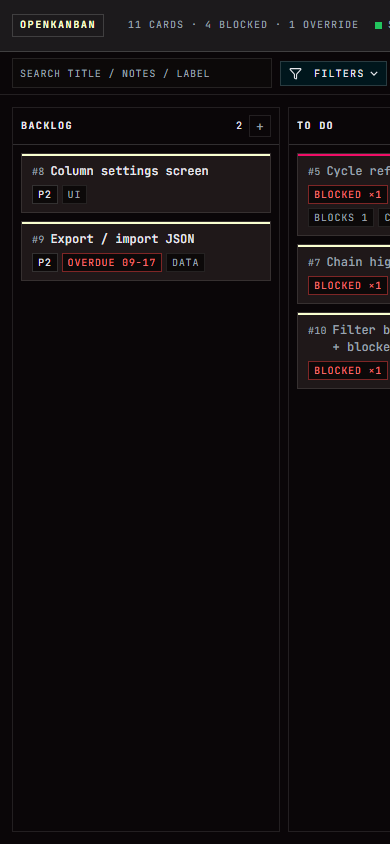
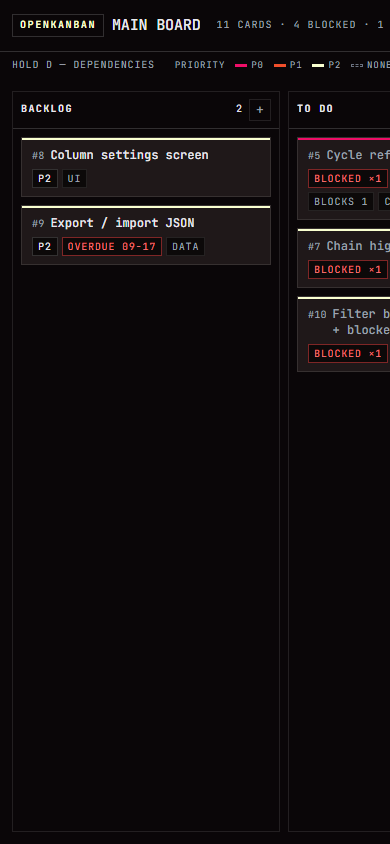
docs: refresh the screenshots and the numbers for the toolbar layout
Captions now match the interface: the filter pane opens under its icon in the toolbar, and the
settings panel is described as the sidebar it is.

The session table is re-measured at 162 minutes, 24 turns, 424 responses, 617 tool calls, 80.2M
tokens and a dollar sixty-eight, with the DuckDB query printed so the figure can be reproduced
rather than taken on trust — and a note that the session ran past the measurement, so it is a
snapshot.

The plan records the three defects this round produced (the composer that survived a reset, the
toolbar that starved the search field to zero width, the two read-outs under AA) and the three
decisions behind the layout: three surfaces and one hover, read-outs without borders, and columns
that fill the page height. Four claims that measurement did not support are recorded alongside
them, including the seed's dependency edges being cross-column — six of the eight are.

diff --git a/tasks/plans/openkanban-mvp.md b/tasks/plans/openkanban-mvp.md
@@ -277,8 +277,9 @@ Verification tally — the runs, each counted once, summing to the total:
 8 numbering/migration/edge semantics, 10 regression over the new features, 4 hover-ring semantics,
 7 regression over the card surface change, 7 column-header checks, 9 ink-surface checks,
 6 ring-separator checks, 6 overlay-contrast checks, 14 reset-flow checks, 5 surface-and-header
-colour checks, plus the committed smoke suite (18 checks) run end to end.
-**372 assertions across 26 runs.**
+colour checks, 9 toolbar-restructure checks, 8 full-height-layout checks, 4 centring checks, 6
+bar-width checks, plus the committed smoke suite (19 checks) run end to end.
+**399 assertions across 30 runs.**
 
 Thirty-one failed on first pass. Two were real product defects, both found by a test rather than
 by review, both fixed: the icon CDN executing nothing (defect 11) and a chip click dismissing the
@@ -414,9 +415,39 @@ horizontal scroll: 0), which is the standard kanban affordance, and at COMPACT d
     both directions: it exits 1 naming `--col-bg` at styles.css:685 on the broken state, and passes
     once the reference is fixed.
 
+18. **A half-typed card survived a reset** (found by re-reading the reset path against `importFile`,
+    which clears `ui.inlineAdd` and this did not). Reproduced before fixing: type "half typed title"
+    into a column's composer, reset the board, and the emptied column came back with the text still
+    in its add form — the one piece of pending work the wipe left behind. `doResetBoard` now clears
+    it with the rest of the pointers at deleted cards, and the smoke suite asserts the composer is
+    gone so the next person cannot reintroduce it. Consequence of the same pass: reset keeps the
+    filters, where import clears them — an import replaces the board with a different one (where a
+    stale filter hides everything), while a reset leaves a visible search box and visible chips, so
+    silently changing the view would be a second, unasked-for action.
+19. **The toolbar squeezed the board title to "MA…"** — visible in the hero screenshot the moment the
+    search field moved into the bar. Measured: the title rendered 32px of the 89px it needed, because
+    `flex: 0 1 auto` let it shrink while the fixed-width search field did not. The title is now
+    `flex: 0 0 auto` and the search field is `clamp(130px, 17vw, 220px)`, so the field gives way
+    first and the bar scrolls before the title is clipped. Verified: 89px rendered, fits.
+20. **Two toolbar hints were under AA** — the dependency hint ("HOLD D — DEPENDENCIES", the only
+    place the headline feature's hotkey is taught) and the priority legend's label both measured
+    4.17:1 at 9–10px. Both moved from muted to secondary for 7.93:1. The same pass raised the storage
+    lamp for the same reason (3.58:1 on the short-lived carbon band, 6.81:1 after).
+21. **The toolbar starved the search field to zero width** — found by checking the bar at six widths
+    after the search field moved into it. With the field on `flex: 0 1 auto` and `min-width: 0`, the
+    two `flex: 1` spacers that centre it took everything: at 700px the input rendered 0px wide while
+    the toolbar reported it as present. It is now `flex: 0 0 auto` with `clamp(130px, 17vw, 220px)`,
+    measured at 390/700/900/1200/1440/1920 — a real width at every one, and the bar scrolls instead of
+    collapsing a control. Centring holds (13px of true centre) wherever the bar is not scrolling.
 Claims that did not survive checking: a visual audit asserted the columns had different widths and
 that DONE was narrower; measurement shows five × 268px and zero card/chip overflow. The same audit's
-"low-contrast" complaint was right, but for a different reason than stated (item 1).
+"low-contrast" complaint was right, but for a different reason than stated (item 1). Three more from
+the review of this round, each settled by measuring rather than by argument — a claim that the seed's
+dependency edges are all intra-column (six of eight cross columns: c-shell in DONE blocks c-store in
+REVIEW and c-drag in IN PROGRESS, c-graph in IN PROGRESS blocks c-cycle in TO DO, and so on); a vision
+reading of the armed reset button as "red with white text" (`getComputedStyle` says `rgb(24, 4, 6)` at
+weight 700, which is 5.27:1 on the fill); and a claim that this repo has a git remote (it has none —
+which is why the README carries no CI badge and describes the workflow in prose instead).
 
 ## Assumption log (sorted by consequence)
 
@@ -525,6 +556,22 @@ that DONE was narrower; measurement shows five × 268px and zero card/chip overf
     confirm button fills, and only once the word has armed it. This keeps the fifth hue out of a
     palette where every colour already means something (priority rail, blocked/override, due today,
     the dependency overlay).
+25. **The toolbar, the read-out row and the sidebar all take the page's fill** (user-directed, across
+    three corrections in one pass: the navy family, then a carbon band, then back to the page). What
+    survived is a rule rather than a colour: a surface is only allowed to differ from the page when it
+    genuinely floats above it — cards, and the ink of modals, toasts and the filter pane. The sidebar
+    is not floating, it is docked, so it is the page with a rule down its edge and a dimmed backdrop
+    behind it. Anything that reads as chrome gets a border, not a plane.
+26. **The dependency hotkey and the priority key sit under the toolbar, not inside it** (user-directed
+    after seeing the first version). They are read-outs, not controls: no border, no fill, no divider,
+    and they scroll with their own row rather than competing for space with the buttons. The rule this
+    settles is that a control earns a border and a read-out does not, which is also why the filter
+    button lost its word and kept only its icon plus a badge.
+27. **Columns fill the page height rather than their content** (user-directed). The app grid gives the
+    board every pixel the toolbar and read-out row do not use, so all five columns share a bottom edge
+    at the viewport foot whether they hold eleven cards or one. An empty column then has a definite
+    place to drop a card, and the board reads as a board rather than as five lists of different
+    lengths.
 
 ## Reasoning trace
 

diff --git a/README.md b/README.md
@@ -32,9 +32,9 @@ The graph is the reason the rest of the app is shaped the way it is. Card number
 - **A storage lamp** that says `SAVED` or explains why it could not, and quarantines an unreadable payload to `<key>.corrupt` instead of discarding it.
 - **One file, one dependency: JetBrains Mono over a dark palette**, zero border radius, hard 1px rules, no shadows.
 
-| Filters and the popover | Settings and view options |
+| Filters | Settings and view options |
 | --- | --- |
-| ![The filter popover open over the board](docs/screenshots/filters.webp) | ![The settings drawer, with lifecycle flags and view options](docs/screenshots/settings.webp) |
+| ![The filter pane open under its icon in the toolbar](docs/screenshots/filters.webp) | ![The settings sidebar, with lifecycle flags and view options](docs/screenshots/settings.webp) |
 
 | Reset, gated on a typed word | Narrow viewport |
 | --- | --- |
@@ -92,7 +92,7 @@ The app has no build, so a green build would prove nothing. The gate drives the 
 ```sh
 npm ci
 npx playwright install chromium
-npm test          # 18 checks, ~20s
+npm test          # 19 checks, ~15s
 npm run check     # syntax check, plus every var() in the CSS must resolve
 ```
 
@@ -110,7 +110,7 @@ Any static host works, because there is nothing to build. On Vercel: import the 
 
 The look is lifted from a sibling project's design language: a dark instrument panel, JetBrains Mono throughout, 1px rules as the only source of separation, and zero border radius.
 
-There are exactly three surfaces and one hover: the **page** (`#0a0608`, which the columns share, so a column is drawn by its rule and its header hairline rather than by a plane), the **card** (`#1f1819`, warm against the rest), and **ink** (`#00161c`) for every piece of chrome — drawers, dialogs, toasts, the filter control and its pane. The navbar is the single exception: carbon black (`#1c1a1c`), because it is the one band that is neither the page nor a card. Every hover across the app is the same translucent white lift rather than a fourth surface colour, so a button looks like the same button wherever it is placed.
+There are exactly three surfaces and one hover. The **page** (`#0a0608`), which the toolbar, the read-out row and the columns all share, so those are drawn by their rules rather than by a change of plane. The **card** (`#1f1819`), warm against the rest. And **ink** (`#00161c`) for the things that genuinely float: the filter pane, the modals and the toasts. The sidebar is the page's own material too — three surfaces is the whole system, and every hover across the app is one translucent white lift rather than a fourth colour, so a button looks like the same button wherever it is placed.
 
 Colour is rationed, and this is the rule that keeps it legible: **colour is reserved for the priority rail, the blocked/override/due chips, the filter control, and the dependency overlay** — everything else is ink, ivory or a grey. Where two colour systems have to share a surface (priority fills and dependency rings, for instance) they are separated by a dark step rather than a louder hue, because contrast for a coloured ring is set by what is immediately behind it. That is a measured decision, not a taste one: on the palest priority tint the dependency ring measured 1.28:1 before the fix and 4.5:1 or better after it, with ring rendering identical whether the fills are tinted or not.
 
@@ -132,21 +132,34 @@ vercel.json               cache and security headers for the deploy
 
 ## How this was built
 
-One session, one model (`deepseek-v4-flash`), with the transcript as the source of these numbers — parsed with DuckDB out of the harness's session log, counting only the model's own responses (a "turn" is a message from me, and one turn can be dozens of responses once the agent starts running tools). They are measured at the moment this README was written, so the commits that follow move them a little.
+One session, one model (`deepseek-v4-flash`), with the transcript as the source of these numbers — parsed with DuckDB out of the harness's session log, counting only the model's own responses (a "turn" is a message from me, and one turn can be dozens of responses once the agent starts running tools). Measured at the commit that last touched this section; the session ran on past it, so these are a snapshot rather than a final total.
+
+The query, if you want to reproduce it against your own session log:
+
+```sql
+SELECT count(*) AS responses,
+       sum(message.usage.input)::BIGINT  AS input_tokens,
+       sum(message.usage.output)::BIGINT AS output_tokens,
+       sum(message.usage.cacheRead)::BIGINT AS cache_reads,
+       sum(message.usage.totalTokens)::BIGINT AS total_tokens,
+       round(sum(message.usage.cost.total), 2) AS cost_usd
+FROM read_json_auto('<session>.jsonl', format = 'newline_delimited', union_by_name = true)
+WHERE type = 'message' AND message.role = 'assistant';
+```
 
 | | |
 | --- | --- |
-| Wall clock | 121 minutes |
-| Turns (mine) | 18 |
-| Model responses | 338 |
-| Tool calls | 516 |
-| Input tokens | 1,266,486 |
-| Output tokens | 559,578 |
-| Reasoning tokens | 272,315 |
-| Cache reads | 61,064,704 |
-| Total tokens | 62,890,768 |
-| Cost | $1.42 |
-| App code | 3,784 lines across `index.html`, `styles.css`, `app.js` |
-| Test harness and config | 439 lines |
+| Wall clock | 162 minutes |
+| Turns (mine) | 24 |
+| Model responses | 424 |
+| Tool calls | 617 |
+| Input tokens | 1,552,941 |
+| Output tokens | 619,273 |
+| Reasoning tokens | 292,540 |
+| Cache reads | 78,054,272 |
+| Total tokens | 80,226,486 |
+| Cost | $1.68 |
+| App code | 3,829 lines across `index.html`, `styles.css`, `app.js` |
+| Test harness and config | 486 lines |
 
-Roughly a cent a minute, and about $0.0004 per line that survived to the end — of which the majority was spent on the parts you cannot see in a screenshot: the derived-blocked model, the validation and repair path, and measuring contrast rather than guessing at it.
+Roughly a cent a minute, and about four hundredths of a cent per line that survived to the end — of which the majority was spent on the parts you cannot see in a screenshot: the derived-blocked model, the validation and repair path, and measuring contrast rather than guessing at it.
